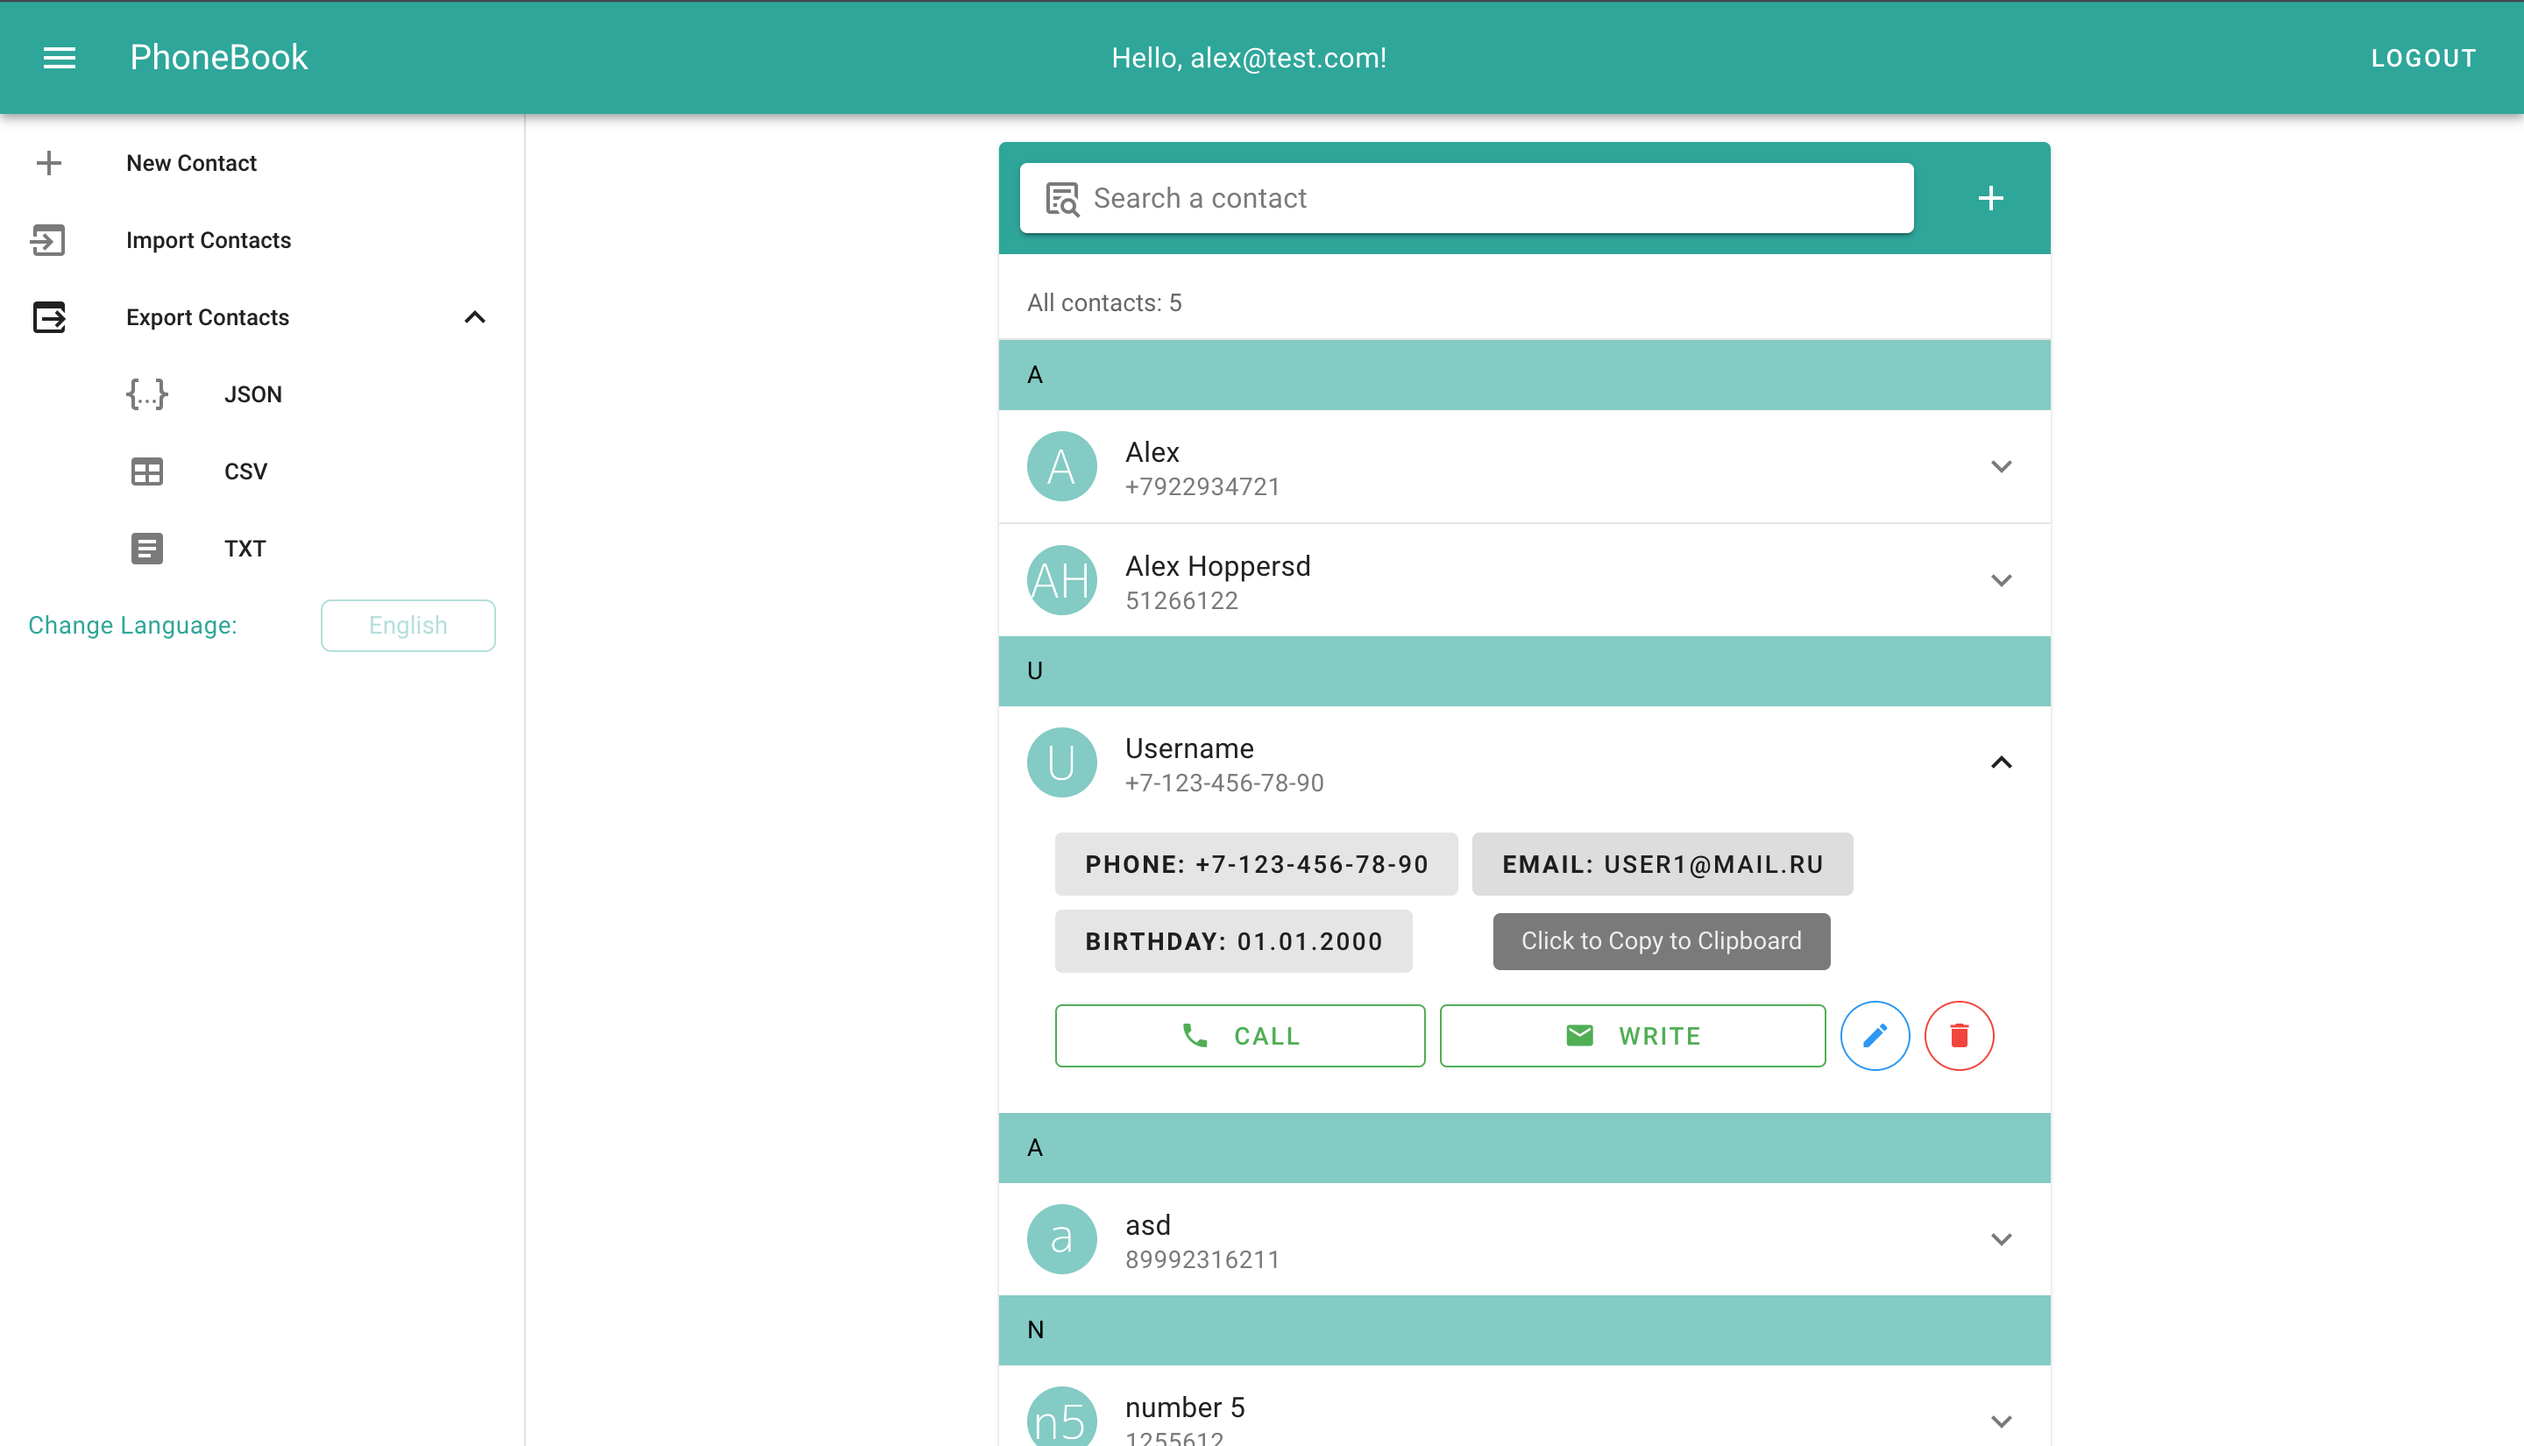
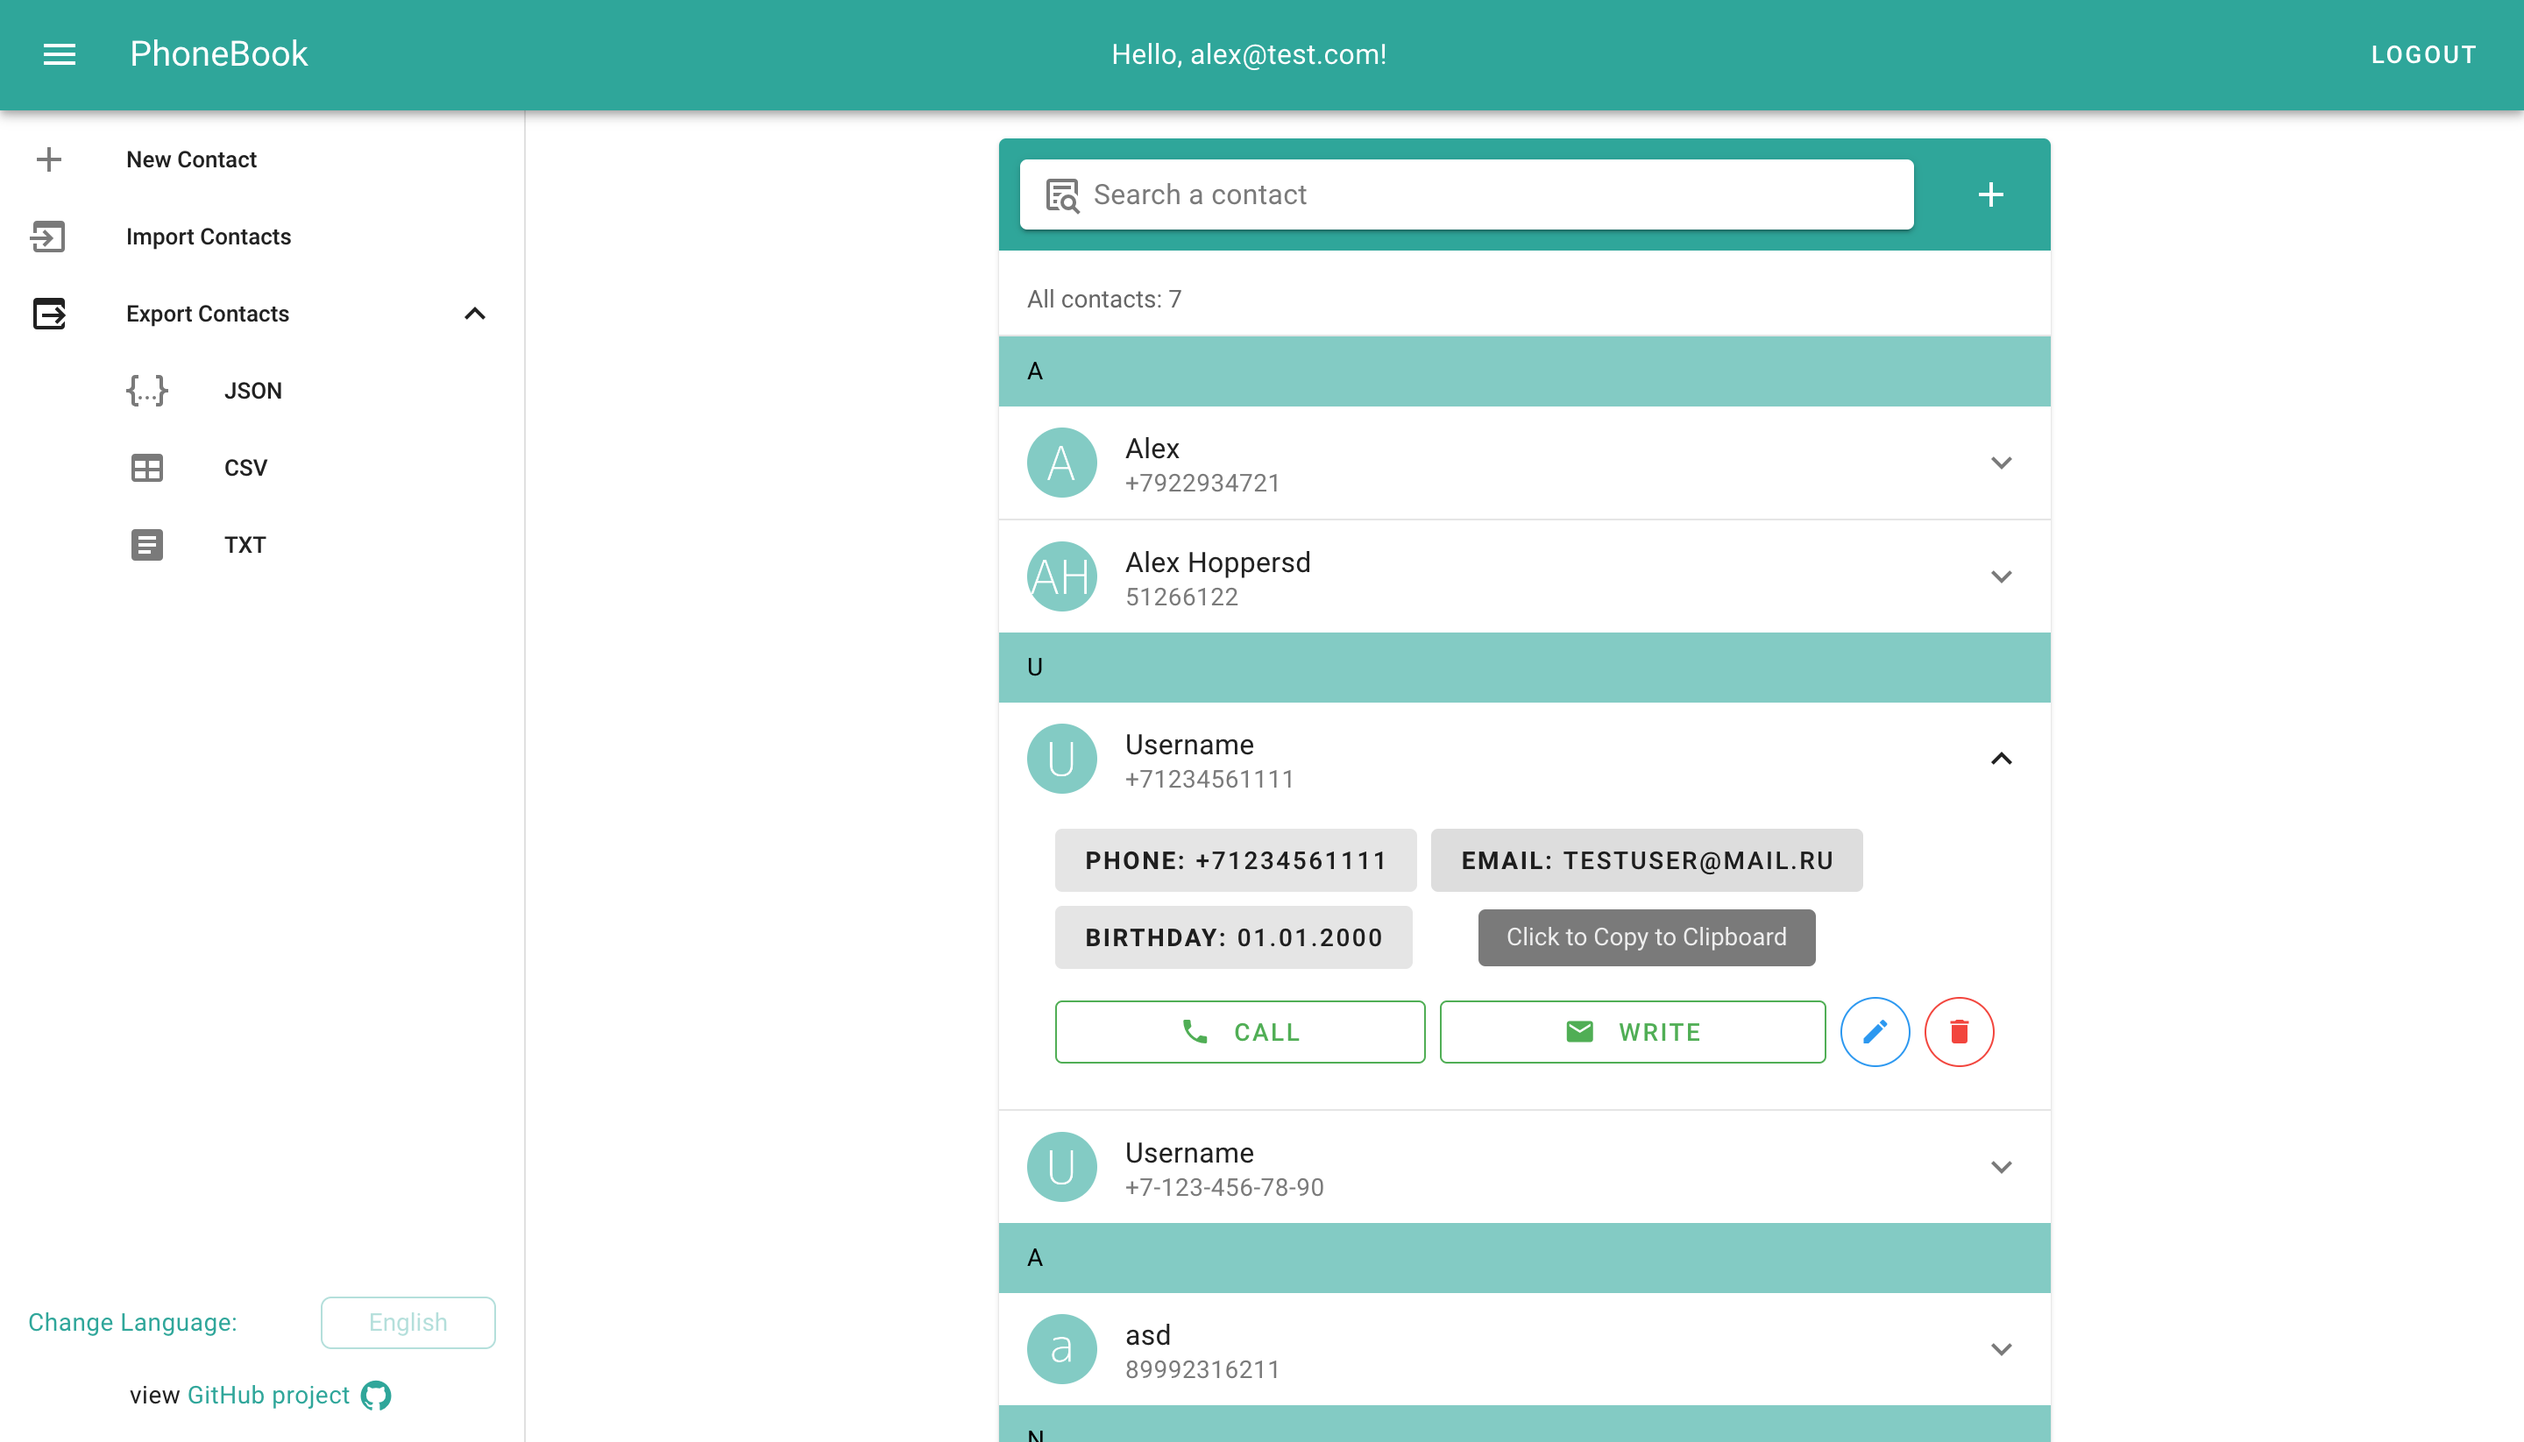
Обновлен скриншот страницы контактов

diff --git a/README.md b/README.md
@@ -74,6 +74,7 @@ Deploy: https://phonebook-60b42.web.app
     -   Импорт контактов (в формате JSON)
     -   Экспорт контактов (в форматах JSON/CSV/TXT)
     -   Переключатель языка
+    -   Ссылка на страницу проекта на GitHub
 -   Список контактов
 -   Открытая карточка контакта, содержащая:
     -   Кнопку "Позвонить"
